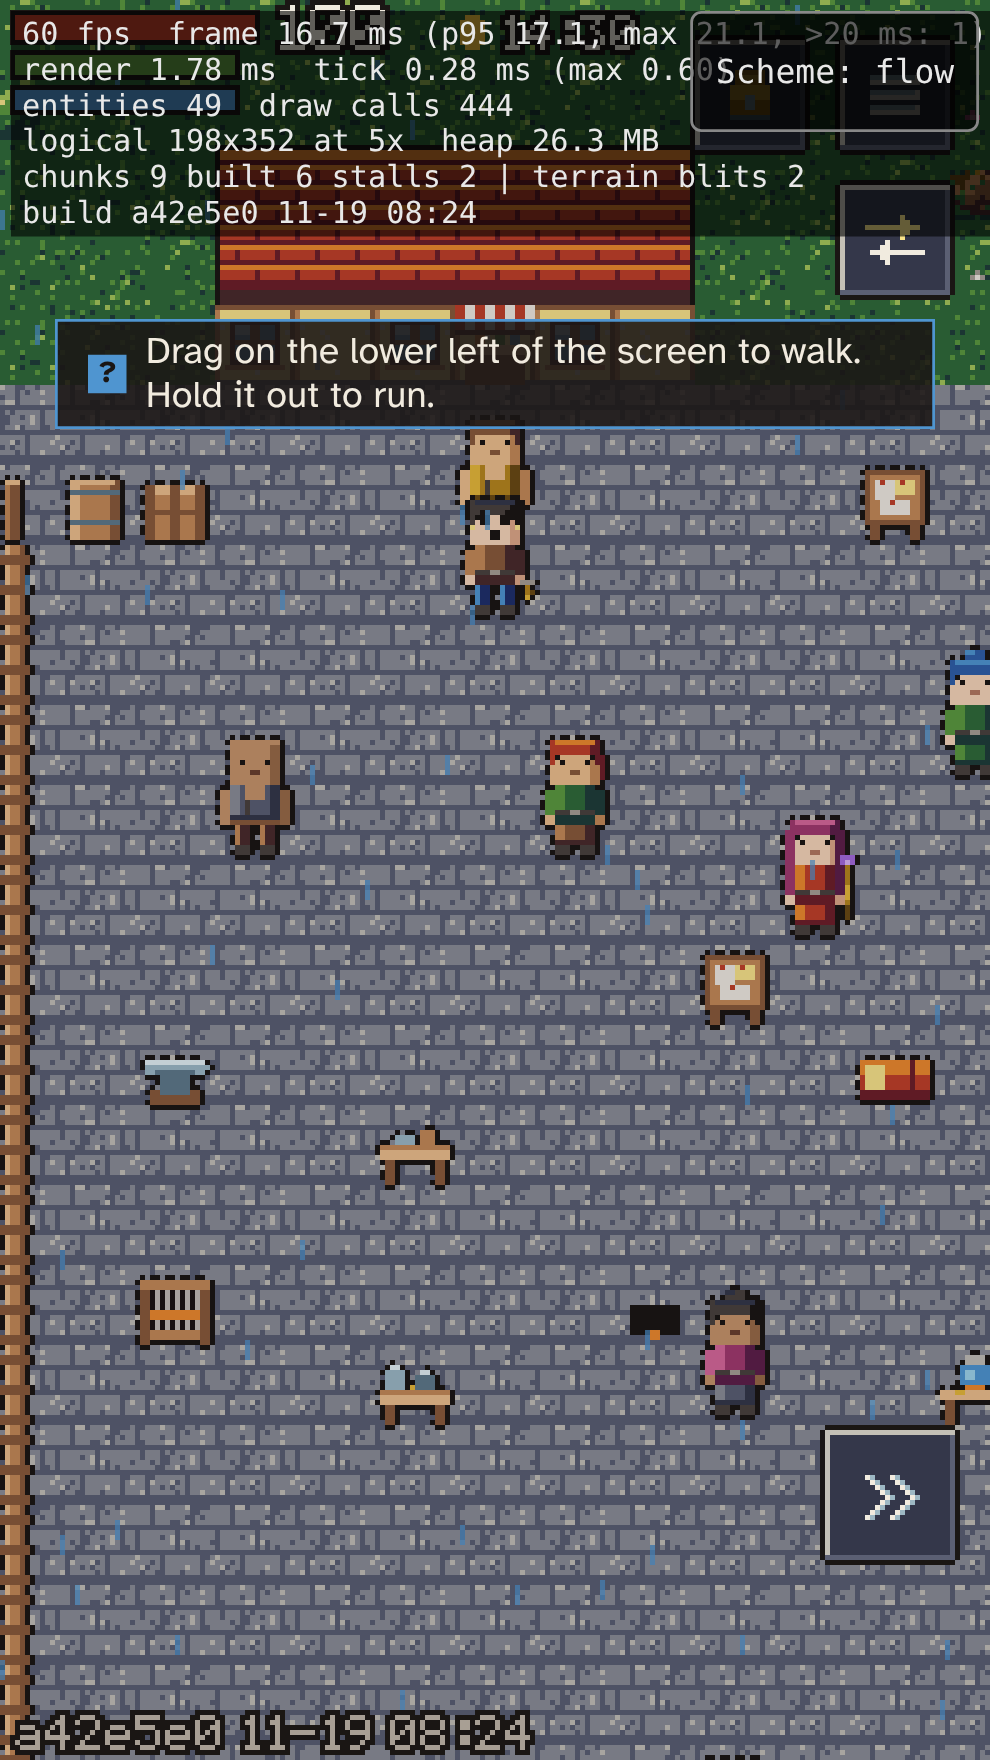
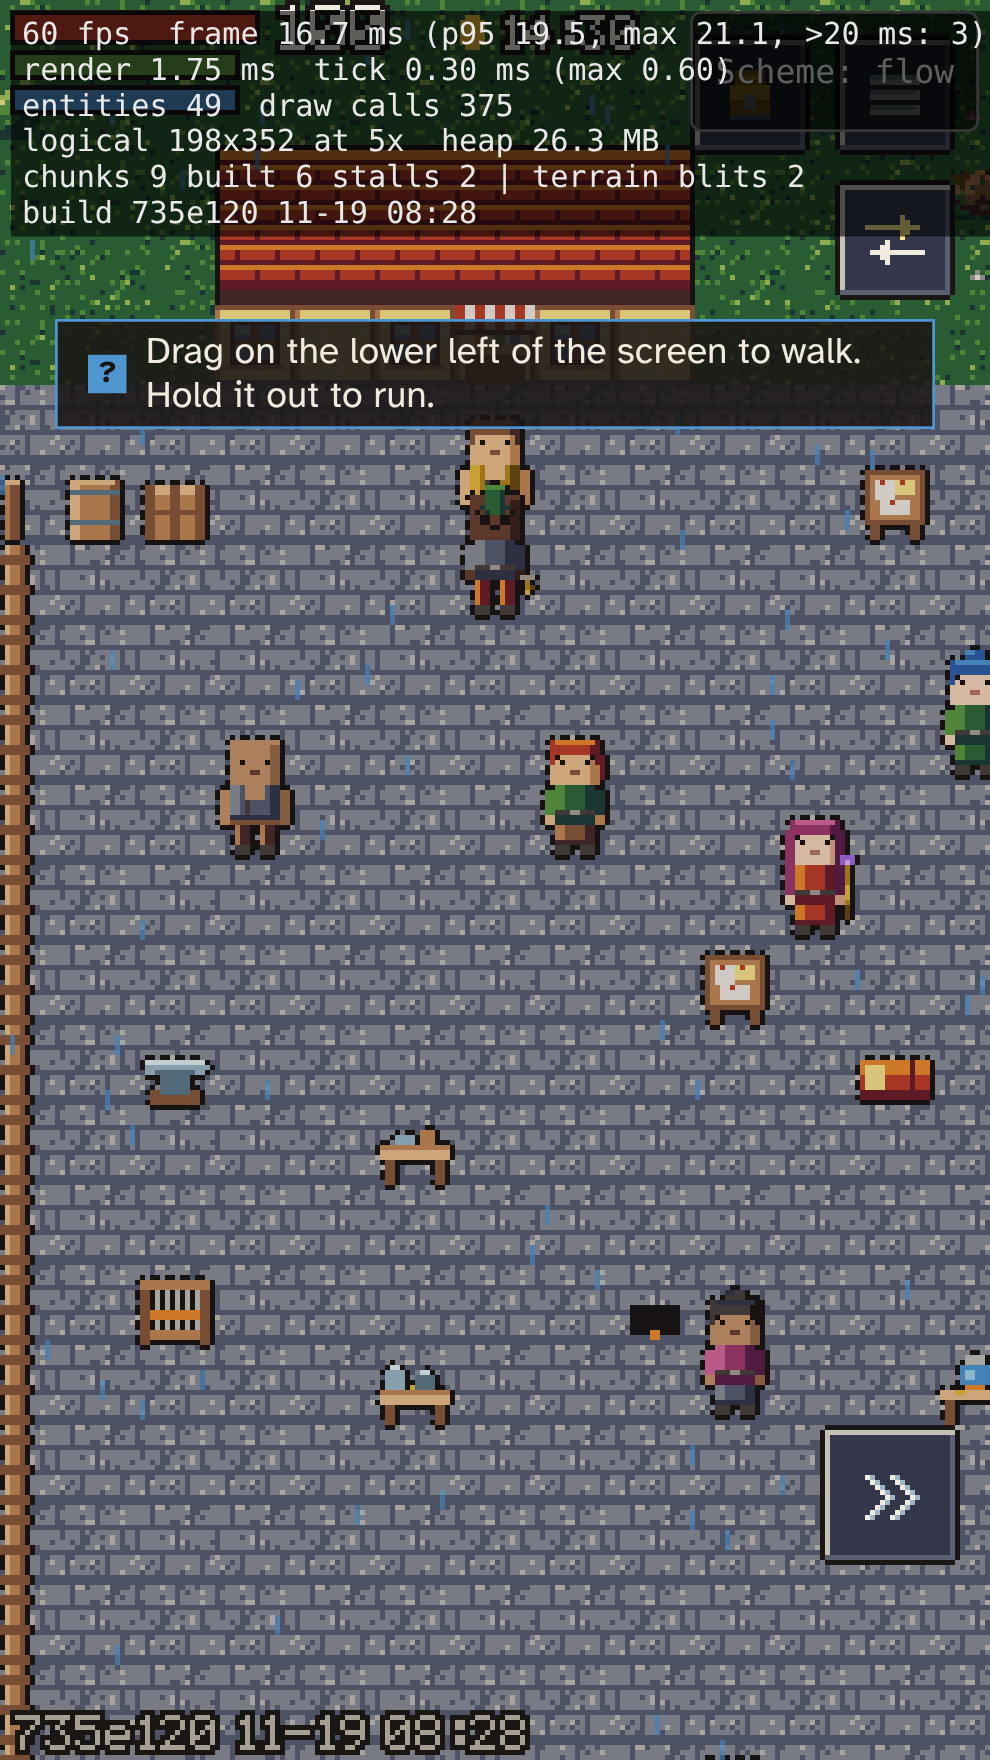
wip M4-09: lint split, fight-sim on clear weather

diff --git a/tests/sim/weather.test.ts b/tests/sim/weather.test.ts
@@ -1,18 +1,7 @@
 import { describe, expect, it } from 'vitest';
 import { WEATHER, TIME, type Weather } from '../../src/content/balance/time';
 import { WEATHER_BALANCE } from '../../src/content/balance/weather';
-import { PALETTE } from '../../src/content/sprites/palette';
-import {
-  LIGHTS,
-  PHASE_GRADE,
-  SEASON_PALETTE,
-  WEATHER_GRADE,
-  WEATHER_PARTICLES,
-} from '../../src/content/world/atmosphere';
 import { REGION_WEATHER, weatherFor } from '../../src/content/world/weather';
-import { lightLevel, phaseTint, weatherTint } from '../../src/render/grade';
-import { Layer, type Renderer } from '../../src/render/renderer';
-import { WeatherFx } from '../../src/render/weatherFx';
 import { createAvatar } from '../../src/sim/avatar';
 import { createDemoState } from '../../src/sim/state';
 import { px } from '../../src/sim/kernel/fixed';
@@ -25,7 +14,6 @@ import {
   weatherOn,
 } from '../../src/sim/time';
 import { elementPct, noticePct, spawnTicks } from '../../src/sim/weatherEffects';
-import { calendarView } from '../../src/ui/menu/model';
 
 const CYCLE = TIME.phases.reduce((n, p) => n + p.minutes, 0) * TIME.ticksPerMinute;
 
@@ -113,19 +101,6 @@ describe('the clock and the calendar', () => {
     expect(calendarOf(7 * CYCLE)).toMatchObject({ day: 1, season: 'summer' });
     expect(calendarOf(28 * CYCLE)).toMatchObject({ day: 1, season: 'spring', year: 2 });
   });
-
-  it('the calendar view names the date, the hour, today and the days ahead', () => {
-    const s = createDemoState(12345, 0);
-    s.region = 'dawnmeadow';
-    s.worldTick = 0;
-    const v = calendarView(s);
-    expect(v.date).toBe('Year 1, Spring, day 1 of 7');
-    expect(v.time).toMatch(/^Day, \d\d:\d\d$/);
-    expect(v.today).toMatch(/^Weather today: /);
-    expect(v.ahead).toHaveLength(6);
-    // The week ahead agrees with the table.
-    expect(v.ahead[0]).toContain('Spring 2: ');
-  });
 });
 
 describe('weather effects', () => {
@@ -179,96 +154,5 @@ describe('weather effects', () => {
     const s = at('rain');
     createAvatar(s, px(10), px(10));
     expect(elementPct(s, 'tide', 0, 0)).toBe(125);
-  });
-});
-
-describe('grading', () => {
-  it('day is untinted, night is the darkest, and every step in between is smooth', () => {
-    let last = phaseTint(0);
-    let maxStep = 0;
-    for (let t = 1; t <= CYCLE * 2; t += 1) {
-      const n = phaseTint(t);
-      maxStep = Math.max(maxStep, Math.abs(n.alpha - last.alpha));
-      last = n;
-    }
-    expect(maxStep).toBeLessThan(0.0005);
-    const alphas = [0, 4, 34, 38, 44].map((m) => phaseTint(m * TIME.ticksPerMinute).alpha);
-    expect(Math.max(...alphas)).toBeLessThanOrEqual(PHASE_GRADE.night.alpha + 1e-9);
-    expect(phaseTint(10 * TIME.ticksPerMinute).alpha).toBeCloseTo(0, 5);
-    expect(phaseTint(42 * TIME.ticksPerMinute).alpha).toBeCloseTo(PHASE_GRADE.night.alpha, 2);
-  });
-
-  it('lights are off by day and on at night', () => {
-    expect(lightLevel(10 * TIME.ticksPerMinute)).toBe(0);
-    expect(lightLevel(42 * TIME.ticksPerMinute)).toBeGreaterThan(0.9);
-  });
-
-  it('every colour in the data is a palette index, and weather tints are valid', () => {
-    const idx: number[] = [];
-    for (const g of [...Object.values(PHASE_GRADE), ...Object.values(WEATHER_GRADE)])
-      idx.push(g.color);
-    for (const l of [
-      ...Object.values(LIGHTS.tiles),
-      ...Object.values(LIGHTS.fixtures),
-      LIGHTS.lantern,
-    ])
-      idx.push(l.color);
-    for (const p of Object.values(WEATHER_PARTICLES)) idx.push(p!.color);
-    for (const m of Object.values(SEASON_PALETTE))
-      for (const [a, b] of Object.entries(m)) idx.push(Number(a), b);
-    for (const i of idx) expect(PALETTE[i], String(i)).toBeDefined();
-    for (const w of WEATHER) expect(weatherTint(w).color).toMatch(/^#[0-9a-f]{6}$/);
-  });
-});
-
-describe('weather particles', () => {
-  function fakeRenderer(): Renderer & { rects: number } {
-    const r = {
-      width: 180,
-      height: 320,
-      rects: 0,
-      drawRect() {
-        r.rects++;
-      },
-    };
-    return r as unknown as Renderer & { rects: number };
-  }
-
-  it('fills the pool to the weather count and clears it when the weather ends', () => {
-    let seed = 1;
-    const fx = new WeatherFx(() => (seed = (seed * 16807) % 2147483647) / 2147483647);
-    const r = fakeRenderer();
-    fx.update(16, 'rain', 180, 320, 0);
-    fx.draw(r, 0, 0, 'rain', 0);
-    expect(r.rects).toBe(WEATHER_PARTICLES.rain!.count);
-    r.rects = 0;
-    fx.update(16, 'storm', 180, 320, 0);
-    fx.draw(r, 0, 0, 'storm', 0);
-    expect(r.rects).toBeGreaterThanOrEqual(WEATHER_PARTICLES.storm!.count);
-    r.rects = 0;
-    fx.update(16, 'clear', 180, 320, 0);
-    fx.draw(r, 0, 0, 'clear', 0);
-    expect(r.rects).toBe(0);
-  });
-
-  it('keeps every particle on screen as it falls', () => {
-    let seed = 7;
-    const fx = new WeatherFx(() => (seed = (seed * 16807) % 2147483647) / 2147483647);
-    const spy = { n: 0, bad: 0 } as { n: number; bad: number };
-    const r = {
-      width: 180,
-      height: 320,
-      drawRect(_l: number, x: number, y: number) {
-        spy.n++;
-        if (x < -30 || x > 230 || y < -10 || y > 330) spy.bad++;
-      },
-    } as unknown as Renderer;
-    for (let i = 0; i < 600; i++) {
-      fx.update(16, 'snow', 180, 320, i * 16);
-      fx.draw(r, 0, 0, 'snow', i * 16);
-    }
-    expect(spy.n).toBeGreaterThan(0);
-    expect(spy.bad).toBe(0);
-    void Layer;
   });
 });

diff --git a/tests/unit/weatherRender.test.ts b/tests/unit/weatherRender.test.ts
@@ -1,0 +1,130 @@
+import { describe, expect, it } from 'vitest';
+import { WEATHER, TIME } from '../../src/content/balance/time';
+import { PALETTE } from '../../src/content/sprites/palette';
+import {
+  LIGHTS,
+  PHASE_GRADE,
+  SEASON_PALETTE,
+  WEATHER_GRADE,
+  WEATHER_PARTICLES,
+} from '../../src/content/world/atmosphere';
+import { lightLevel, phaseTint, weatherTint } from '../../src/render/grade';
+import type { Renderer } from '../../src/render/renderer';
+import { WeatherFx } from '../../src/render/weatherFx';
+import { createDemoState } from '../../src/sim/state';
+import { calendarView } from '../../src/ui/menu/model';
+
+const CYCLE = TIME.phases.reduce((n, p) => n + p.minutes, 0) * TIME.ticksPerMinute;
+
+describe('the calendar view', () => {
+  it('the calendar view names the date, the hour, today and the days ahead', () => {
+    const s = createDemoState(12345, 0);
+    s.region = 'dawnmeadow';
+    s.worldTick = 0;
+    const v = calendarView(s);
+    expect(v.date).toBe('Year 1, Spring, day 1 of 7');
+    expect(v.time).toMatch(/^Day, \d\d:\d\d$/);
+    expect(v.today).toMatch(/^Weather today: /);
+    expect(v.ahead).toHaveLength(6);
+    // The week ahead agrees with the table.
+    expect(v.ahead[0]).toContain('Spring 2: ');
+  });
+});
+
+describe('grading', () => {
+  it('day is untinted, night is the darkest, and every step in between is smooth', () => {
+    let last = phaseTint(0);
+    let maxStep = 0;
+    for (let t = 1; t <= CYCLE * 2; t += 1) {
+      const n = phaseTint(t);
+      maxStep = Math.max(maxStep, Math.abs(n.alpha - last.alpha));
+      last = n;
+    }
+    expect(maxStep).toBeLessThan(0.0005);
+    const alphas = [0, 4, 34, 38, 44].map((m) => phaseTint(m * TIME.ticksPerMinute).alpha);
+    expect(Math.max(...alphas)).toBeLessThanOrEqual(PHASE_GRADE.night.alpha + 1e-9);
+    expect(phaseTint(10 * TIME.ticksPerMinute).alpha).toBeCloseTo(0, 5);
+    expect(phaseTint(42 * TIME.ticksPerMinute).alpha).toBeCloseTo(PHASE_GRADE.night.alpha, 2);
+  });
+
+  it('lights are off by day and on at night', () => {
+    expect(lightLevel(10 * TIME.ticksPerMinute)).toBe(0);
+    expect(lightLevel(42 * TIME.ticksPerMinute)).toBeGreaterThan(0.9);
+  });
+
+  it('every colour in the data is a palette index, and weather tints are valid', () => {
+    const idx: number[] = [];
+    for (const g of [...Object.values(PHASE_GRADE), ...Object.values(WEATHER_GRADE)])
+      idx.push(g.color);
+    for (const l of [
+      ...Object.values(LIGHTS.tiles),
+      ...Object.values(LIGHTS.fixtures),
+      LIGHTS.lantern,
+    ])
+      idx.push(l.color);
+    for (const p of Object.values(WEATHER_PARTICLES)) idx.push(p!.color);
+    for (const m of Object.values(SEASON_PALETTE))
+      for (const [a, b] of Object.entries(m)) idx.push(Number(a), b);
+    for (const i of idx) expect(PALETTE[i], String(i)).toBeDefined();
+    for (const w of WEATHER) expect(weatherTint(w).color).toMatch(/^#[0-9a-f]{6}$/);
+  });
+});
+
+describe('weather particles', () => {
+  function fakeRenderer(): Renderer & { rects: number } {
+    const r = {
+      width: 180,
+      height: 320,
+      rects: 0,
+      drawRect() {
+        r.rects++;
+      },
+      drawMarks(_l: number, _xs: unknown, _ys: unknown, n: number) {
+        r.rects += n;
+      },
+    };
+    return r as unknown as Renderer & { rects: number };
+  }
+
+  it('fills the pool to the weather count and clears it when the weather ends', () => {
+    let seed = 1;
+    const fx = new WeatherFx(() => (seed = (seed * 16807) % 2147483647) / 2147483647);
+    const r = fakeRenderer();
+    fx.update(16, 'rain', 180, 320, 0);
+    fx.draw(r, 0, 0, 'rain', 0);
+    expect(r.rects).toBe(WEATHER_PARTICLES.rain!.count);
+    r.rects = 0;
+    fx.update(16, 'storm', 180, 320, 0);
+    fx.draw(r, 0, 0, 'storm', 0);
+    expect(r.rects).toBeGreaterThanOrEqual(WEATHER_PARTICLES.storm!.count);
+    r.rects = 0;
+    fx.update(16, 'clear', 180, 320, 0);
+    fx.draw(r, 0, 0, 'clear', 0);
+    expect(r.rects).toBe(0);
+  });
+
+  it('keeps every particle on screen as it falls', () => {
+    let seed = 7;
+    const fx = new WeatherFx(() => (seed = (seed * 16807) % 2147483647) / 2147483647);
+    const spy = { n: 0, bad: 0 } as { n: number; bad: number };
+    const r = {
+      width: 180,
+      height: 320,
+      drawRect() {},
+      drawMarks(_l: number, xs: Float32Array, ys: Float32Array, n: number) {
+        for (let i = 0; i < n; i++) {
+          spy.n++;
+          const x = xs[i] as number;
+          const y = ys[i] as number;
+          if (x < -30 || x > 230 || y < -10 || y > 330) spy.bad++;
+        }
+      },
+    } as unknown as Renderer;
+    for (let i = 0; i < 600; i++) {
+      fx.update(16, 'snow', 180, 320, i * 16);
+      fx.draw(r, 0, 0, 'snow', i * 16);
+    }
+    expect(spy.n).toBeGreaterThan(0);
+    expect(spy.bad).toBe(0);
+  });
+});

diff --git a/tools/fight-sim/harness.ts b/tools/fight-sim/harness.ts
@@ -130,6 +130,8 @@ function fightOnce(
   start: FightStart,
 ): FightResult {
   const s = createDemoState(seed, 0);
+  // Time-to-kill targets are for clear weather. Weather has its own tests (M4-09).
+  s.weatherOverride = 'clear';
   s.world = OPEN;
   const f = feetAt(30, 30);
   const me = createAvatar(s, f.x, f.y, 'Sim_1');
